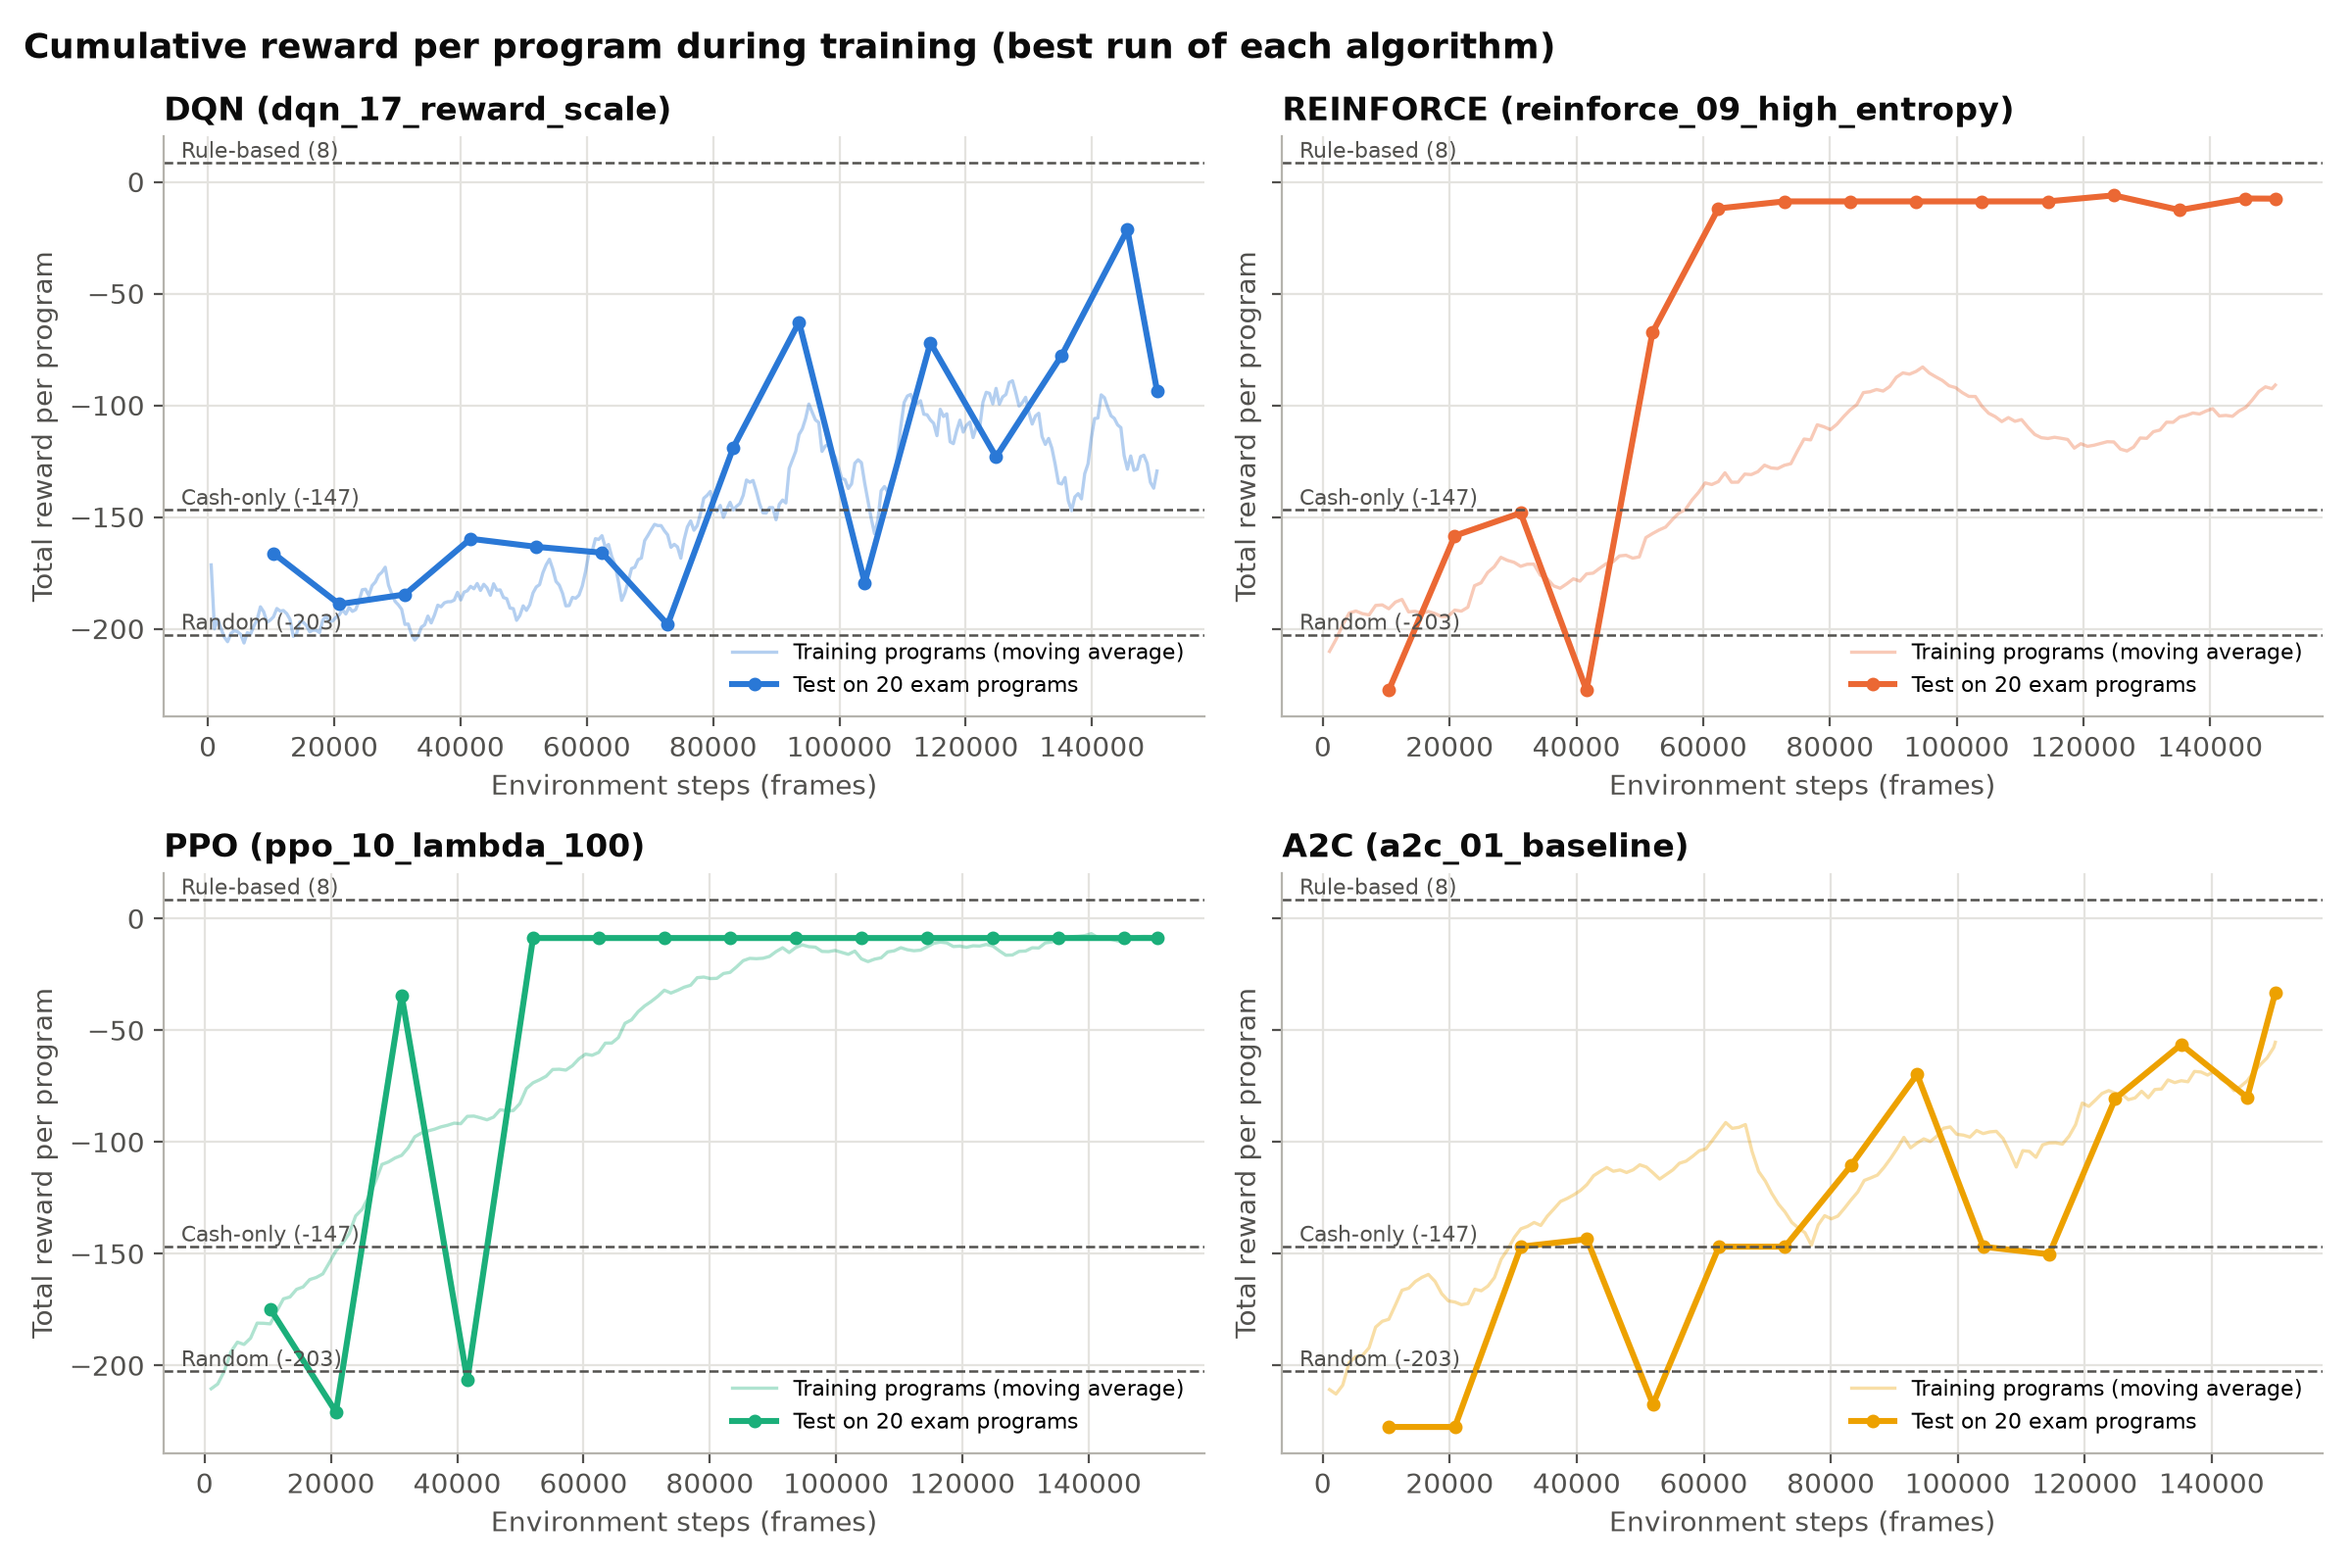
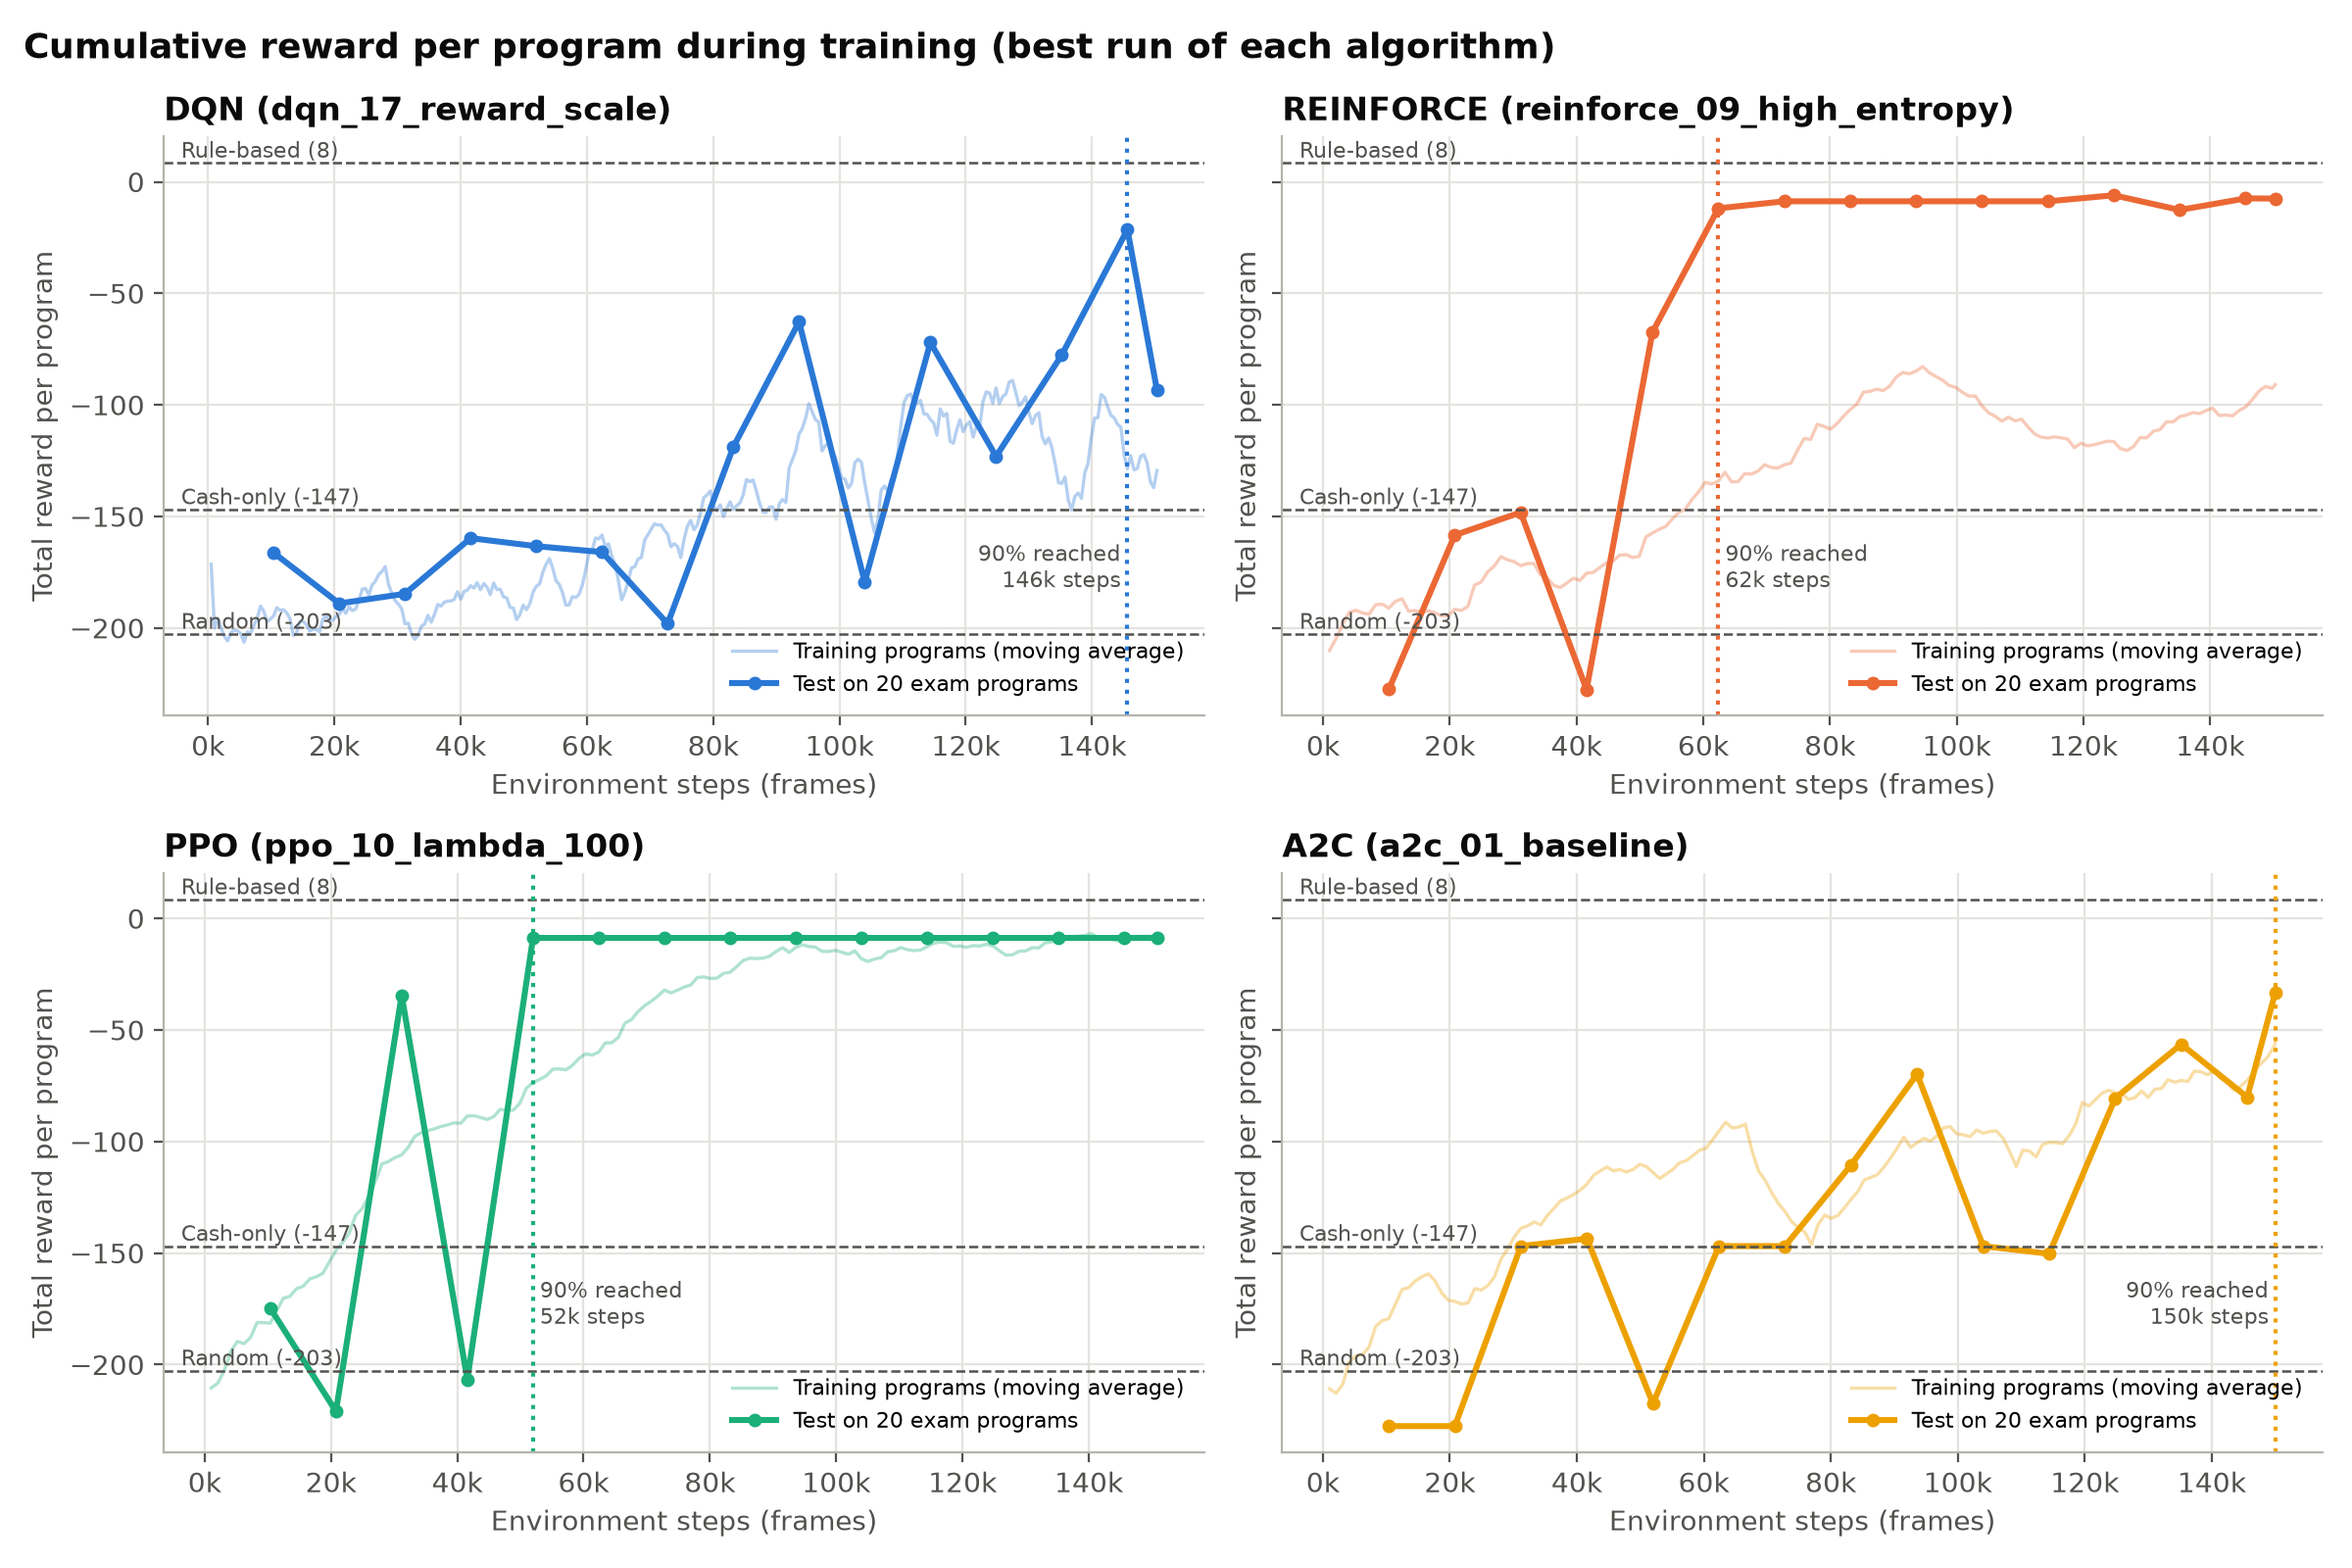
Mark convergence on the reward figure, clearer action colours, steps in thousands

diff --git a/training/analysis.py b/training/analysis.py
@@ -45,7 +45,8 @@ MUTED = "#52514e"
 GRID = "#e4e3df"
 
 # One colour per action for the behaviour figure (fixed order)
-ACTION_COLORS = ["#b5b3ad", "#e34948", "#2a78d6", "#6250d6", "#e87ba4", "#eda100", "#1baf7a", "#008300"]
+# (assessment visit is brown so it cannot be confused with the green of graduation)
+ACTION_COLORS = ["#b5b3ad", "#e34948", "#2a78d6", "#6250d6", "#e87ba4", "#eda100", "#8a5a2b", "#008300"]
 
 # Test settings for generalization
 UNSEEN_SEEDS = list(range(9000, 9050))
@@ -70,6 +71,11 @@ def style_axes(ax, title, xlabel, ylabel):
     for side in ["left", "bottom"]:
         ax.spines[side].set_color("#b5b3ad")
     ax.tick_params(colors=MUTED)
+
+
+def steps_in_thousands(ax):
+    # Show environment steps as 20k, 40k, ... instead of 20000, 40000, ...
+    ax.xaxis.set_major_formatter(matplotlib.ticker.FuncFormatter(lambda x, _: f"{x / 1000:.0f}k"))
 
 
 def save_figure(fig, name):
@@ -162,9 +168,10 @@ def make_convergence_table(algorithms):
 # ---------------------------------------------------------------------------
 # 2. Figures
 # ---------------------------------------------------------------------------
-def figure_reward_comparison(algorithms, scores):
+def figure_reward_comparison(algorithms, scores, convergence):
     """One panel per algorithm: the reward of each training program (thin line,
-    smoothed) and the test reward on the 20 exam programs (thick line)."""
+    smoothed) and the test reward on the 20 exam programs (thick line).
+    A dotted line marks where the run converged (see make_convergence_table)."""
     names = {"rule_based": "Rule-based", "cash_only": "Cash-only", "random": "Random"}
     fig, axes = plt.subplots(2, 2, figsize=(12, 8), sharey=True)
     for ax, algorithm in zip(axes.flat, algorithms):
@@ -182,7 +189,13 @@ def figure_reward_comparison(algorithms, scores):
             ax.axhline(value, color=MUTED, linestyle="--", linewidth=0.9)
             ax.text(0.01, value, f" {names[key]} ({value:.0f})", transform=ax.get_yaxis_transform(),
                     va="bottom", fontsize=8, color=MUTED)
+        # convergence point: first test that reached 90% of the way to the best score
+        converged = convergence.loc[convergence["run"] == run, "frames_to_90pct"].iloc[0]
+        ax.axvline(converged, color=COLORS[algorithm], linestyle=":", linewidth=1.5)
+        ax.text(converged, 0.30, f" 90% reached \n {converged / 1000:.0f}k steps ", transform=ax.get_xaxis_transform(),
+                fontsize=8, color=MUTED, va="top", ha="right" if converged > 120_000 else "left")
         style_axes(ax, f"{LABELS[algorithm]} ({run})", "Environment steps (frames)", "Total reward per program")
+        steps_in_thousands(ax)
         ax.legend(frameon=False, loc="lower right", fontsize=8)
     fig.suptitle("Cumulative reward per program during training (best run of each algorithm)",
                  x=0.01, ha="left", fontsize=13, fontweight="bold", color=TEXT)
@@ -204,7 +217,9 @@ def figure_training_stability(algorithms):
     explore_end = log.loc[log["epsilon"] <= log["epsilon"].min() + 1e-6, "frames"].min()
     ax1.axvline(explore_end, color=MUTED, linestyle=":", linewidth=1)
     ax1.text(explore_end, ax1.get_ylim()[1], " ε reaches 0.05", va="top", fontsize=8, color=MUTED)
-    style_axes(ax1, f"DQN objective: Huber TD loss ({run})", "Environment steps (frames)", "Loss")
+    style_axes(ax1, f"DQN objective: Huber TD loss ({run})", "Environment steps (frames)",
+               "Loss (on rewards x 0.1)")
+    steps_in_thousands(ax1)
     ax1.legend(frameon=False, fontsize=8, loc="center left")
 
     for algorithm in [a for a in algorithms if a != "dqn"]:
@@ -217,6 +232,7 @@ def figure_training_stability(algorithms):
              va="bottom", fontsize=8, color=MUTED)
     style_axes(ax2, "Policy entropy (best policy gradient runs)", "Environment steps (frames)",
                "Entropy (nats)")
+    steps_in_thousands(ax2)
     ax2.legend(frameon=False, fontsize=8, loc="lower left")
     fig.tight_layout()
     save_figure(fig, "fig4_training_stability.png")
@@ -246,6 +262,7 @@ def figure_sweeps(algorithms, scores):
         count = len(list((LOGS_FOLDER / algorithm).glob("*.csv")))
         style_axes(ax, f"{LABELS[algorithm]}: {count} hyperparameter runs", "Environment steps",
                    "Eval reward")
+        steps_in_thousands(ax)
         ax.legend(frameon=False, fontsize=8, loc="lower right")
     fig.suptitle("Hyperparameter sweeps (grey = other runs, dotted = rule-based officer)",
                  x=0.01, ha="left", fontsize=11, color=MUTED)
@@ -353,7 +370,7 @@ def main():
     make_tables(algorithms)
     scores = baseline_scores()
     convergence = make_convergence_table(algorithms)
-    figure_reward_comparison(algorithms, scores)
+    figure_reward_comparison(algorithms, scores, convergence)
     if "dqn" in algorithms:
         figure_training_stability(algorithms)
     figure_sweeps(algorithms, scores)
